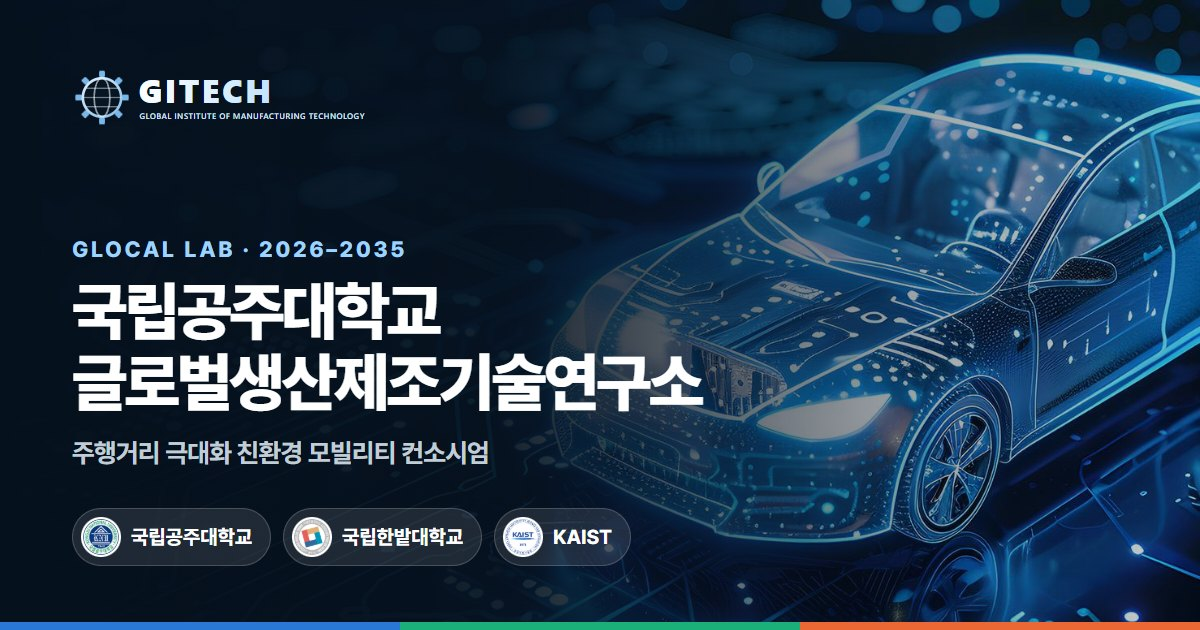
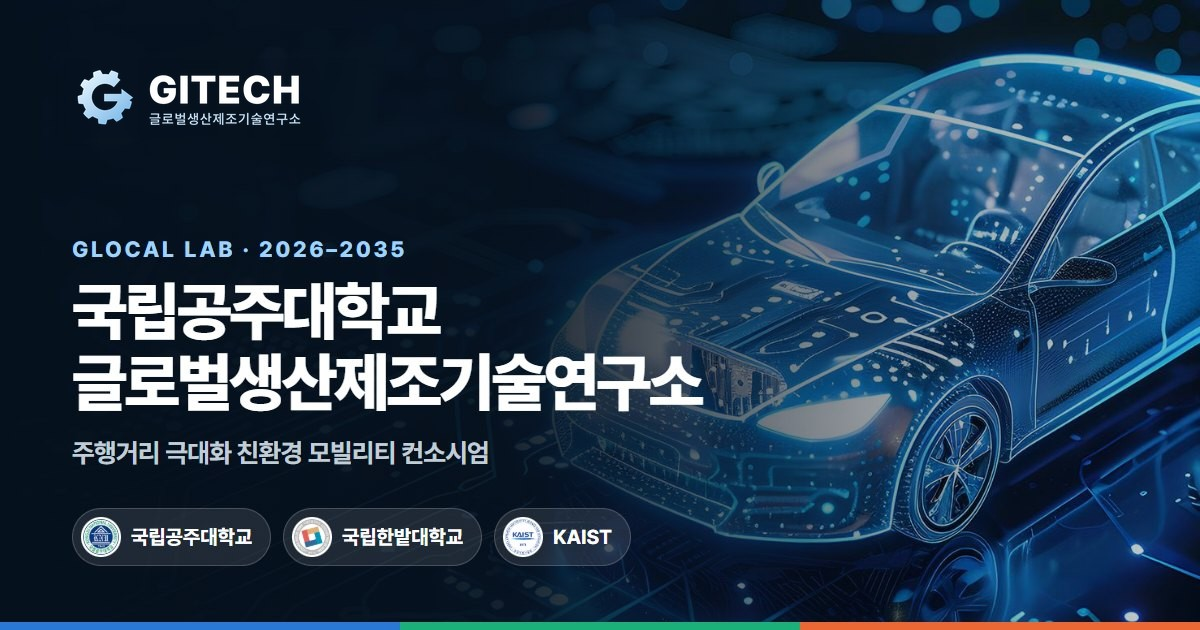
update

Changed region(s): [[0.0617, 0.0905, 0.3083, 0.2111]]

diff --git a/app.js b/app.js
@@ -25,6 +25,7 @@
   const PUB_ORDER = Object.fromEntries(PUB_TYPES.map(([id], i) => [id, i]));
   const PUB_ALL = { type: 'all', field: 'all', year: 'all', prof: 'all', q: '' };
   const PUB_PAGE = 30; // 논문·학회 목록을 처음에 보여 줄 건수 (‘더 보기’마다 2배씩 추가)
+  const REP_PAGE = 8; // 대표 연구실적을 처음에 보여 줄 편수 (‘더 보기’마다 같은 수만큼 추가)
   const PUBS = PUB_DATA.items
     .map((x, i) => {
       const profs = (x.profs || []).filter((id) => PROF[id]);
@@ -35,13 +36,13 @@
     about: ['About', '컨소시엄 소개'],
     research: ['Research', '연구 분야', '소재부품 · 생산설계 · 지능제어 3개 분야의 융합 연구로 친환경 모빌리티의 주행거리 극대화 기술을 개발합니다.'],
     people: ['People', '구성원', '참여교수와 각 연구실의 박사후연구원·대학원생·학부연구생을 소개합니다.'],
-    achievements: ['Achievements', '연구 성과', '최근 4년 SCI(E) 논문 180편, 특허 276건의 통합 연구역량.'],
+    achievements: ['Achievements', '연구 성과'],
     gallery: ['Gallery', '활동 갤러리', 'MOU, 워크샵, 세미나, 협약식 등 컨소시엄 참여 연구소의 주요 활동입니다.'],
     contact: ['Contact', '연락처', '공동연구, 산학협력, 대학원 진학 및 박사후연구원 지원에 관한 문의를 환영합니다.']
   };
 
   let current = { route: null, tab: null };
-  const ui = { profFilter: 'all', labFilter: 'all', labQuery: '', equipFilter: 'all', pubFilter: 'all', galleryFilter: 'all', partnerFilter: 'all', pub: { ...PUB_ALL }, pubLimit: PUB_PAGE };
+  const ui = { profFilter: 'all', labFilter: 'all', labQuery: '', equipFilter: 'all', pubFilter: 'all', galleryFilter: 'all', partnerFilter: 'all', pub: { ...PUB_ALL }, pubLimit: PUB_PAGE, repLimit: REP_PAGE };
   let particleStop = null;
 
   /* ───────── helpers ───────── */
@@ -430,7 +431,7 @@
     const list = P.filter((p) => f === 'all' || hasDeal(p, f));
     const groups = PARTNER_GROUPS.map(([id, en, ko]) => [en, ko, list.filter((p) => p.group === id)]).filter(([, , a]) => a.length);
     return `<section class="section"><div class="container">
-      ${sectionHead('Partners', '협력 기관', `국내외 대학·연구기관·기업 ${P.length}곳과 MOU·LOI를 맺고 공동연구, 공동학위, 연구인력 교류를 추진합니다.`)}
+      ${sectionHead('Partners', '협력 기관')}
       <div class="kpi-sum kpi-5 reveal">${tiles.map(([l, v]) => `<div><b>${v}</b><span>${l}</span></div>`).join('')}</div>
       <p class="partner-countries reveal">${byCountry.map(([c, n]) => `<span>${esc(c)} <b>${n}</b></span>`).join('')}</p>
       <div class="filter-row" data-filter-group="partner">${filters.map(([id, l, n]) => `<button type="button" class="filter-btn" data-filter="${id}" aria-pressed="${f === id}">${l} <span class="count">${n}</span></button>`).join('')}</div>
@@ -637,7 +638,8 @@
     const rows = D.professors.filter((p) => ui.pubFilter === 'all' || p.team === ui.pubFilter).flatMap((p) => (p.pubs || []).map((x) => ({ ...x, p })));
     rows.sort((a, b) => b.year - a.year || (b.if || 0) - (a.if || 0));
     const jcrRank = (jcr) => { const n = parseFloat(String(jcr || '').replace(/[^0-9.]/g, '')); return Number.isFinite(n) ? n : NaN; };
-    const list = rows.map((r) => {
+    const shown = rows.slice(0, ui.repLimit);
+    const list = shown.map((r) => {
       const top = jcrRank(r.jcr);
       const metric = (r.if != null || r.jcr)
         ? `<div class="metric">${r.if != null ? `<b>IF ${Number(r.if).toFixed(1)}</b>` : ''}${r.jcr ? `<span class="${top <= 10 ? 'top' : ''}">JCR ${esc(r.jcr)}</span>` : ''}</div>`
@@ -649,9 +651,10 @@
         ${sectionHead('Representative papers', '참여교수 SCI(E) 대표 연구실적')}
         <div class="filter-row" data-filter-group="pub">${filters.map(([id, l]) => `<button type="button" class="filter-btn" data-filter="${id}" aria-pressed="${ui.pubFilter === id}">${l}</button>`).join('')}</div>
         <div class="pub-list">${list}</div>
+        ${rows.length > shown.length ? `<div class="pub-more"><button type="button" class="btn secondary" data-rep-more>더 보기 <span>${shown.length} / ${rows.length}편</span></button></div>` : ''}
       </div>
       <div>
-        ${sectionHead('Highlights', '생산·설계 분야 주요 게재 학술지', '국립공주대 글로벌생산제조기술연구소 참여교원의 고피인용 학술지 게재 실적입니다.')}
+        ${sectionHead('Highlights', '생산·설계 분야 주요 게재 학술지')}
         <div class="cover-grid">${D.coverPapers.map((c) => `<figure class="cover reveal"><img src="${esc(c.img)}" alt="${esc(c.journal)} 표지" loading="lazy" /><div><b>${esc(c.journal)}</b><span>IF ${c.if}</span></div></figure>`).join('')}</div>
       </div>
     </div></section>`;
@@ -973,6 +976,14 @@
       if (first) { first.tabIndex = -1; first.focus({ preventScroll: true }); }
       return;
     }
+    if (t.closest('[data-rep-more]')) {
+      const shown = ui.repLimit;
+      ui.repLimit += REP_PAGE;
+      rerenderPanel();
+      const first = app.querySelectorAll('.pub-list .pub-card')[shown];
+      if (first) { first.tabIndex = -1; first.focus({ preventScroll: true }); }
+      return;
+    }
     if (t.closest('[data-pub-top]')) { app.querySelector('.pub-filters').scrollIntoView({ behavior: reducedMotion.matches ? 'auto' : 'smooth' }); return; }
     if (t.closest('[data-pub-reset]')) {
       ui.pub = { ...PUB_ALL };
@@ -999,6 +1010,7 @@
       const group = fb.closest('[data-filter-group]').dataset.filterGroup;
       const key = { prof: 'profFilter', lab: 'labFilter', equip: 'equipFilter', pub: 'pubFilter', gallery: 'galleryFilter', partner: 'partnerFilter' }[group];
       ui[key] = fb.dataset.filter;
+      if (group === 'pub') ui.repLimit = REP_PAGE;
       if (current.route === 'gallery') { const panel = app.querySelector('[data-panel]'); panel.innerHTML = renderGallery(); panel.querySelectorAll('.reveal').forEach((x) => x.classList.add('in')); afterRender(panel); }
       else rerenderPanel();
       return;

diff --git a/styles.css b/styles.css
@@ -148,7 +148,7 @@ button:focus-visible, a:focus-visible, input:focus-visible, select:focus-visible
 .site-header::after { content: ""; position: absolute; left: 0; right: 0; bottom: -1px; height: 2px; background: var(--tri); opacity: 0; transition: opacity var(--fast); }
 .site-header.is-scrolled::after { opacity: 1; }
 .brand { display: inline-flex; align-items: center; min-width: 0; margin-right: auto; }
-.brand-logo { width: 236px; height: auto; }
+.brand-logo { height: 50px; width: auto; }
 .main-nav { display: flex; align-items: center; gap: clamp(16px, 2.1vw, 34px); font-size: 13px; font-weight: 800; letter-spacing: 0.07em; text-transform: uppercase; }
 .main-nav a { position: relative; opacity: 0.86; padding: 14px 0; transition: opacity var(--fast), transform var(--fast); }
 .main-nav a.is-active { opacity: 1; }
@@ -720,7 +720,7 @@ button.ext-link { border: 0; cursor: pointer; }
 .site-footer::before { content: ""; position: absolute; top: 0; left: 0; right: 0; height: 3px; background: var(--tri); }
 .footer-inner { width: min(var(--max), 100%); margin: 0 auto; }
 .footer-grid { display: grid; grid-template-columns: 1.2fr 1.4fr 1fr; gap: 46px; align-items: start; padding-bottom: 30px; border-bottom: 1px solid rgba(255,255,255,.10); }
-.footer-logo { width: 220px; height: auto; margin-bottom: 14px; }
+.footer-logo { height: 60px; width: auto; margin-bottom: 14px; }
 .footer-grid h3 { margin: 0 0 10px; font-size: 12px; letter-spacing: .14em; text-transform: uppercase; color: #fff; }
 .footer-grid p { margin: 0; color: rgba(215,231,242,.76); font-size: 14px; }
 .footer-insts { display: flex; gap: 10px; margin-top: 16px; }
@@ -822,7 +822,7 @@ button.ext-link { border: 0; cursor: pointer; }
 /* ───────── Responsive ───────── */
 @media (max-width: 1180px) {
   .site-header { height: 72px; padding: 0 20px; gap: 8px; }
-  .brand-logo { width: 196px; }
+  .brand-logo { height: 42px; }
   .mobile-menu-button { display: block; order: 1; }
   .main-nav { position: fixed; top: 72px; left: 14px; right: 14px; display: none; flex-direction: column; align-items: stretch; gap: 0; max-height: calc(100dvh - 90px); overflow-y: auto; padding: 16px; border: 1px solid rgba(255,255,255,.10); border-radius: var(--radius-md); background: rgba(7, 21, 34, .97); box-shadow: var(--shadow); }
   .main-nav.is-open { display: flex; }

diff --git a/index.html b/index.html
@@ -34,7 +34,7 @@
   <div class="site-shell">
     <header class="site-header" data-header>
       <a href="#home" class="brand" aria-label="GITECH 홈으로">
-        <img src="assets/logo-gitech-white.svg" alt="GITECH – Global Institute of Manufacturing Technology" class="brand-logo" />
+        <img src="assets/logo-gitech-white.svg" alt="GITECH 글로벌생산제조기술연구소 (Global Institute of Manufacturing Technology)" class="brand-logo" />
       </a>
       <button class="mobile-menu-button" type="button" aria-label="메뉴 열기" aria-expanded="false" aria-controls="primary-navigation" data-menu-toggle>
         <span></span><span></span><span></span>
@@ -60,7 +60,7 @@
       <div class="footer-inner">
         <div class="footer-grid">
           <div>
-            <img src="assets/logo-gitech-white.svg" alt="GITECH" class="footer-logo" />
+            <img src="assets/logo-gitech-white.svg" alt="GITECH 글로벌생산제조기술연구소" class="footer-logo" />
             <p>국립공주대학교 글로벌생산제조기술연구소<br />2026년 이공분야 학술연구지원사업 – 글로컬랩 주관</p>
             <div class="footer-funders">
               <img src="assets/logos/moe.png" alt="교육부" />
